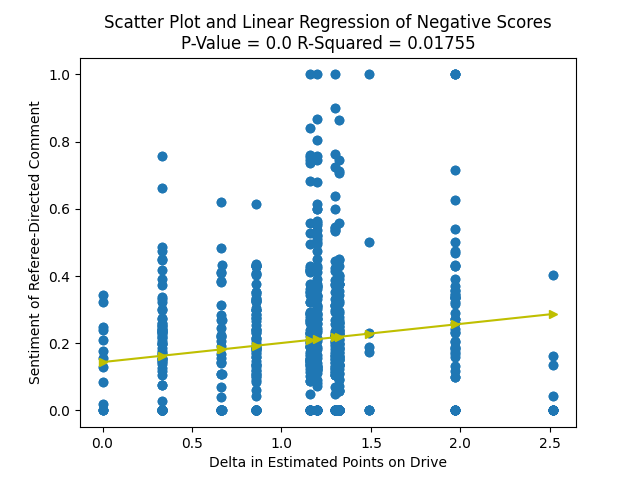
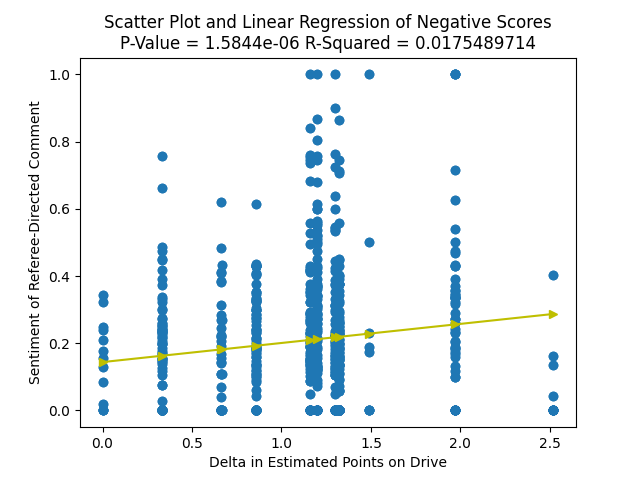
more precision on plots

Changed region(s): [[0.1875, 0.0625, 0.8438, 0.125]]

diff --git a/nfl_gamethread_sentiment_analysis.py b/nfl_gamethread_sentiment_analysis.py
@@ -76,9 +76,9 @@ def plot_fit(
         'y->'
     )
     linear_regression = linregress(ep_delta, scores)
-    p = float('{:.5f}'.format(float(linear_regression.pvalue)))
+    p = float('{:.10f}'.format(float(linear_regression.pvalue)))
     r = linear_regression.rvalue
-    r_sq = float('{:.5f}'.format(float(r ** 2)))
+    r_sq = float('{:.10f}'.format(float(r ** 2)))
     plt.title("Scatter Plot and Linear Regression of " + title + "\nP-Value = " + str(p) + " R-Squared = " + str(r_sq))
     plt.xlabel(x_label)
     plt.ylabel(y_label)
